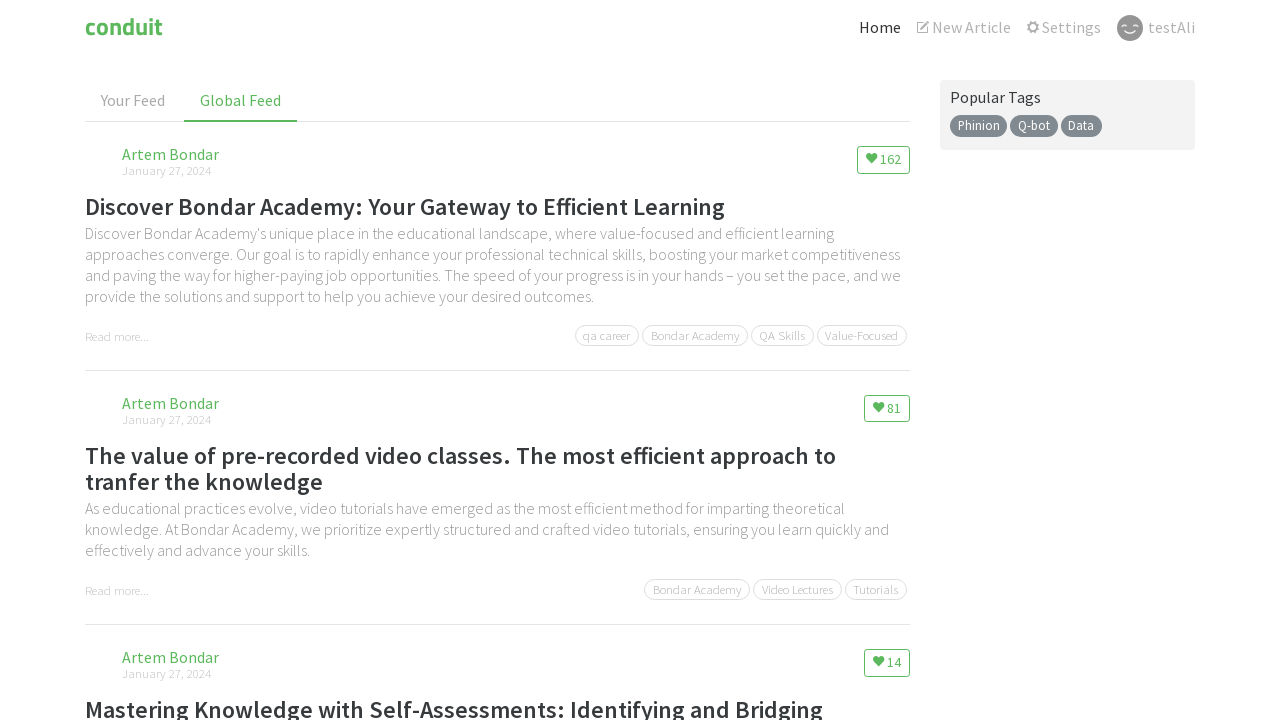
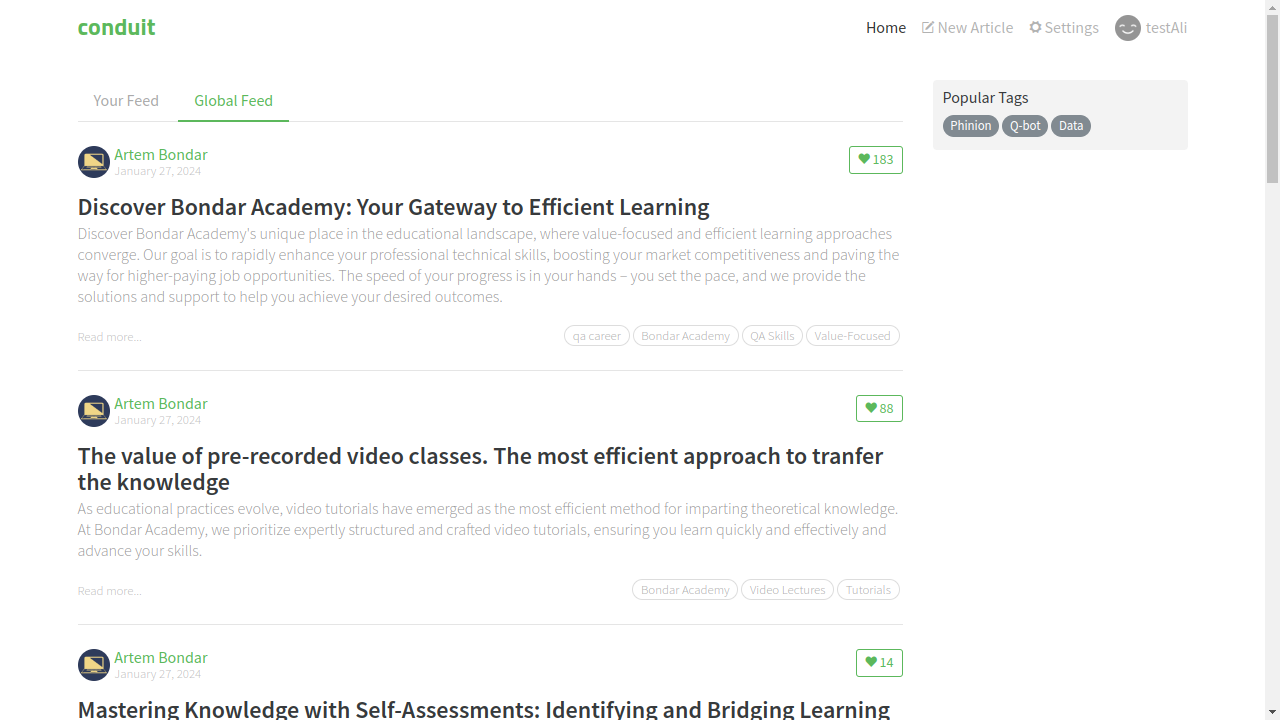
Testing mobile device

diff --git a/playwright.config.ts b/playwright.config.ts
@@ -75,13 +75,22 @@ export default defineConfig<TestOptions>({
       use: { ...devices['Desktop Chrome'], storageState: '.auth/user.json' },
       dependencies: ['articleSetup'],
     },
-
     {
-      name: 'chromium',
-      use: { ...devices['Desktop Chrome'], storageState: '.auth/user.json' },
-      //dependencies: means before running this test, run the setup test
-      dependencies: ['setup'],
+      name: 'mobile',
+      testMatch: 'testMobile.spec.ts',
+      use: {
+        // ...devices['iPhone 13 Pro'],
+        viewport: { width: 414, height: 800 },
+        storageState: '.auth/user.json',
+      },
     },
+
+    // {
+    //   name: 'chromium',
+    //   use: { ...devices['Desktop Chrome'], storageState: '.auth/user.json' },
+    //   //dependencies: means before running this test, run the setup test
+    //   dependencies: ['setup'],
+    // },
     // {
     //   name: 'firefox',
     //   use: { browserName: 'firefox', storageState: '.auth/user.json' },

diff --git a/tests/testMobile.spec.ts b/tests/testMobile.spec.ts
@@ -1,0 +1,13 @@
+import { test } from '@playwright/test';
+
+test('mobile likes counter', async ({ page }) => {
+  await page.goto('https://conduit.bondaracademy.com/');
+  // await page.waitForTimeout(500);
+  await page.getByText('Global Feed').click();
+  const firstLikeButton = page
+    .locator('app-article-preview')
+    .first()
+    .locator('button');
+
+  await firstLikeButton.click();
+});
